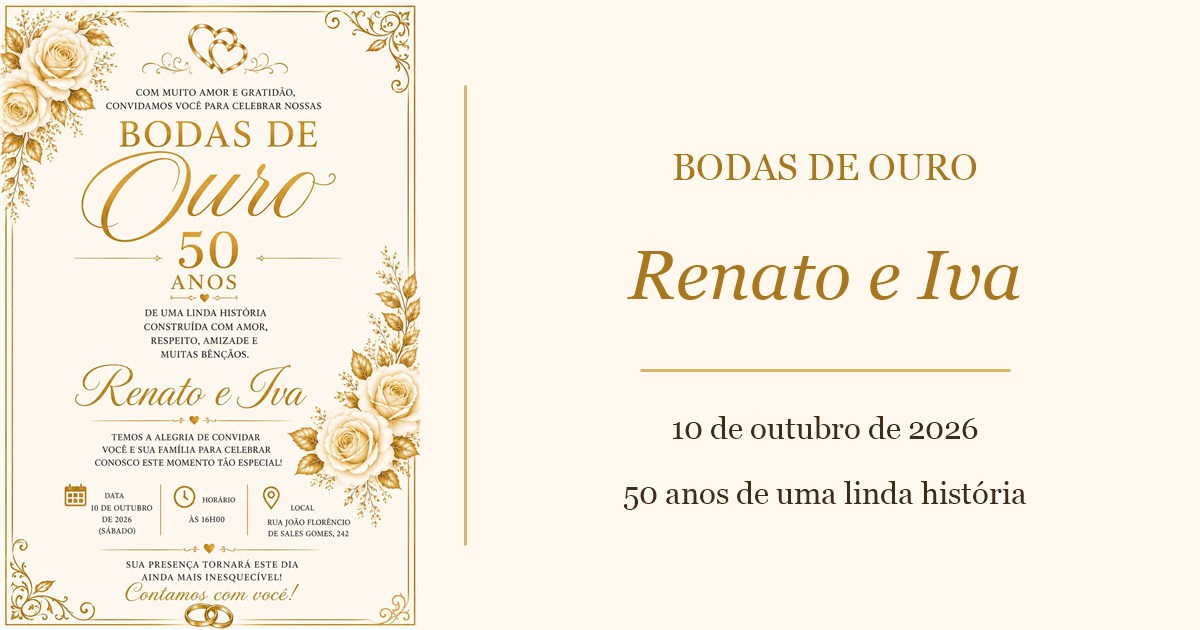
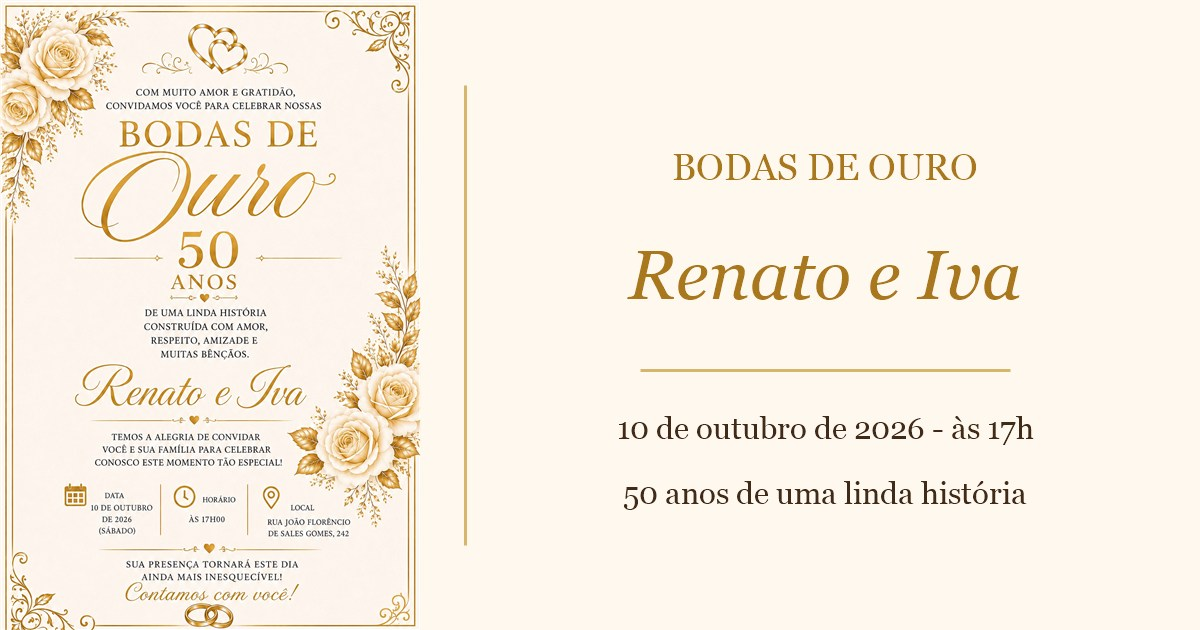
feat: atualiza horário e compartilhamento do convite

diff --git a/script.js b/script.js
@@ -1,5 +1,5 @@
 const pixKey = document.getElementById('pixKey').textContent.trim();
-const eventDate = new Date('2026-10-10T16:00:00-03:00');
+const eventDate = new Date('2026-10-10T17:00:00-03:00');
 
 async function copyText(text) {
   if (navigator.clipboard && window.isSecureContext) {
@@ -18,6 +18,35 @@ async function copyText(text) {
   textArea.remove();
   if (!copied) throw new Error('Não foi possível copiar');
 }
+
+document.getElementById('shareBtn').addEventListener('click', async () => {
+  const status = document.getElementById('shareStatus');
+  const invitationUrl = document.querySelector('link[rel="canonical"]').href;
+  const shareData = {
+    title: 'Bodas de Ouro — Renato e Iva',
+    text: 'Você é nosso convidado para celebrar as Bodas de Ouro de Renato e Iva, no dia 10 de outubro de 2026, às 17h.',
+    url: invitationUrl
+  };
+
+  status.textContent = '';
+
+  if (navigator.share) {
+    try {
+      await navigator.share(shareData);
+      status.textContent = 'Convite compartilhado!';
+      return;
+    } catch (error) {
+      if (error.name === 'AbortError') return;
+    }
+  }
+
+  try {
+    await copyText(invitationUrl);
+    status.textContent = 'Link do convite copiado! Agora é só enviar.';
+  } catch {
+    status.textContent = 'Não foi possível compartilhar automaticamente.';
+  }
+});
 
 function updateCountdown() {
   const countdown = document.getElementById('countdown');

diff --git a/index.html b/index.html
@@ -41,7 +41,7 @@
       <p class="overline">Convite especial</p>
       <h1>Renato <span>♥</span> Iva</h1>
       <h2>Bodas de Ouro — 50 anos</h2>
-      <p class="date">10 de outubro de 2026 • às 16h00</p>
+      <p class="date">10 de outubro de 2026 • às 17h00</p>
       <div id="countdown" class="countdown" role="timer" aria-label="Contagem regressiva para a celebração" hidden>
         <div><strong id="countdownDays">0</strong><span>dias</span></div>
         <div><strong id="countdownHours">0</strong><span>horas</span></div>
@@ -49,7 +49,11 @@
         <div><strong id="countdownSeconds">0</strong><span>segundos</span></div>
       </div>
       <p id="countdownMessage" class="countdown-message" aria-live="polite"></p>
-      <button id="musicBtn" class="music" type="button" aria-pressed="false">▶ Tocar música suave</button>
+      <div class="action-group hero-actions">
+        <button id="musicBtn" class="music" type="button" aria-pressed="false">▶ Tocar música suave</button>
+        <button id="shareBtn" class="btn btn-secondary" type="button">Compartilhar convite</button>
+      </div>
+      <p id="shareStatus" class="status compact-status" aria-live="polite"></p>
     </section>
 
     <section class="invite-frame" aria-label="Convite">

diff --git a/styles.css b/styles.css
@@ -188,6 +188,8 @@ summary:focus-visible {
 }
 
 .action-group { display: flex; gap: .8rem; justify-content: center; flex-wrap: wrap; }
+.hero-actions { margin-top: 1rem; }
+.compact-status { margin-block: .5rem 0; font-size: .92rem; }
 .pix-details { max-width: 680px; margin: 1.25rem auto 0; text-align: left; }
 .pix-details summary { cursor: pointer; color: var(--gold-dark); font-weight: 700; text-align: center; }
 
@@ -235,6 +237,7 @@ footer { padding: 2rem 1rem; color: #65461a; text-align: center; }
   .card { border-radius: 18px; }
   .section { padding: 1.5rem .85rem; }
   .action-group .btn { width: 100%; }
+  .hero-actions .music { width: 100%; }
   .countdown { grid-template-columns: repeat(2, minmax(90px, 1fr)); }
 }
 
